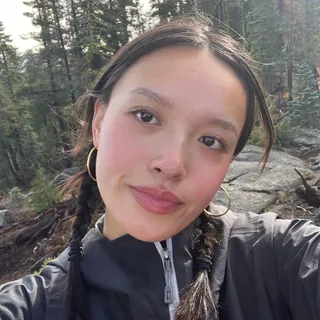
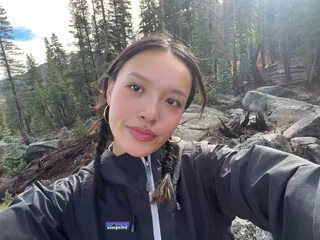
Show the full contact photo beside the connect text
Claude-Session: https://claude.ai/code/session_01N1pcZy8Torufz1pc8bjL2W

diff --git a/index.html b/index.html
@@ -644,54 +644,60 @@
         aria-labelledby="contact-title"
         class="bg-linear-to-br from-canvas via-canvas to-glow-1 px-4 py-14 sm:px-6"
       >
-        <div class="mx-auto flex max-w-3xl flex-col items-center gap-4 text-center">
+        <div class="mx-auto flex max-w-4xl flex-col items-center gap-10 md:flex-row md:justify-center md:gap-14">
           <img
             src="/images/contact-photo-640.webp"
             srcset="/images/contact-photo-320.webp 320w, /images/contact-photo-640.webp 640w"
-            sizes="11rem"
+            sizes="13rem"
             alt="Cassandra smiling in a selfie on a forested mountain trail"
             loading="lazy"
             decoding="async"
-            class="polaroid mb-4"
+            class="polaroid shrink-0"
           />
-          <p class="eyebrow">Connect</p>
-          <h2 id="contact-title" class="font-display text-4xl font-medium tracking-tight text-balance">Get in touch</h2>
-          <p class="max-w-xl text-pretty text-fg-muted">
-            Have a role, project or just want to chat? Email me and let’s chat more!
-          </p>
-          <span class="h-px w-18 bg-accent" aria-hidden="true"></span>
-        </div>
+          <div>
+            <div class="flex flex-col items-center gap-4 text-center md:items-start md:text-left">
+              <p class="eyebrow">Connect</p>
+              <h2 id="contact-title" class="font-display text-4xl font-medium tracking-tight text-balance">
+                Get in touch
+              </h2>
+              <p class="max-w-xl text-pretty text-fg-muted">
+                Have a role, project or just want to chat? Email me and let’s chat more!
+              </p>
+              <span class="h-px w-18 bg-accent" aria-hidden="true"></span>
+            </div>
 
-        <div class="mx-auto mt-6 flex max-w-3xl flex-wrap items-center justify-center gap-3">
-          <a
-            href="mailto:cxlee@ucdavis.edu"
-            class="inline-flex min-h-12 items-center gap-2 rounded-full bg-accent px-6 font-semibold text-on-accent hover:opacity-90"
-          >
-            <svg
-              class="size-5"
-              viewBox="0 0 24 24"
-              fill="none"
-              stroke="currentColor"
-              stroke-width="1.8"
-              stroke-linejoin="round"
-              aria-hidden="true"
-              focusable="false"
-            >
-              <rect x="3" y="5" width="18" height="14" rx="2.5" />
-              <path d="m3.5 6.5 8.5 6.5 8.5-6.5" />
-            </svg>
-            Email cxlee@ucdavis.edu
-          </a>
-          <button
-            type="button"
-            class="inline-flex min-h-12 items-center rounded-full border border-line bg-surface px-6 font-semibold hover:bg-surface-muted"
-            data-copy-email="cxlee@ucdavis.edu"
-            data-copy-status="copy-status"
-            hidden
-          >
-            Copy email
-          </button>
-          <p id="copy-status" role="status" class="w-full text-center text-sm text-fg-muted"></p>
+            <div class="mt-6 flex flex-wrap items-center justify-center gap-3 md:justify-start">
+              <a
+                href="mailto:cxlee@ucdavis.edu"
+                class="inline-flex min-h-12 items-center gap-2 rounded-full bg-accent px-6 font-semibold text-on-accent hover:opacity-90"
+              >
+                <svg
+                  class="size-5"
+                  viewBox="0 0 24 24"
+                  fill="none"
+                  stroke="currentColor"
+                  stroke-width="1.8"
+                  stroke-linejoin="round"
+                  aria-hidden="true"
+                  focusable="false"
+                >
+                  <rect x="3" y="5" width="18" height="14" rx="2.5" />
+                  <path d="m3.5 6.5 8.5 6.5 8.5-6.5" />
+                </svg>
+                Email cxlee@ucdavis.edu
+              </a>
+              <button
+                type="button"
+                class="inline-flex min-h-12 items-center rounded-full border border-line bg-surface px-6 font-semibold hover:bg-surface-muted"
+                data-copy-email="cxlee@ucdavis.edu"
+                data-copy-status="copy-status"
+                hidden
+              >
+                Copy email
+              </button>
+              <p id="copy-status" role="status" class="w-full text-center text-sm text-fg-muted md:text-left"></p>
+            </div>
+          </div>
         </div>
       </section>
     </main>

diff --git a/src/css/main.css b/src/css/main.css
@@ -371,9 +371,9 @@
 
   /* Hero photo frame: a glowing border (neon matcha in light mode, white in dark
      mode, via the --photo-* tokens) that brightens on hover. */
-  /* Instant-photo frame: thick bottom border, slight tilt that straightens on hover. */
+  /* Instant-photo frame (sized for a 4:3 photo): thick bottom border, slight tilt that straightens on hover. */
   .polaroid {
-    @apply h-52 w-44 -rotate-3 border-8 border-b-[2.5rem] border-surface object-cover shadow-xl ring-1 shadow-black/15 ring-line;
+    @apply h-[12.75rem] w-56 -rotate-3 border-8 border-b-[2.5rem] border-surface object-cover shadow-xl ring-1 shadow-black/15 ring-line;
 
     @media (prefers-reduced-motion: no-preference) {
       @apply transition-transform duration-300 hover:rotate-0;
